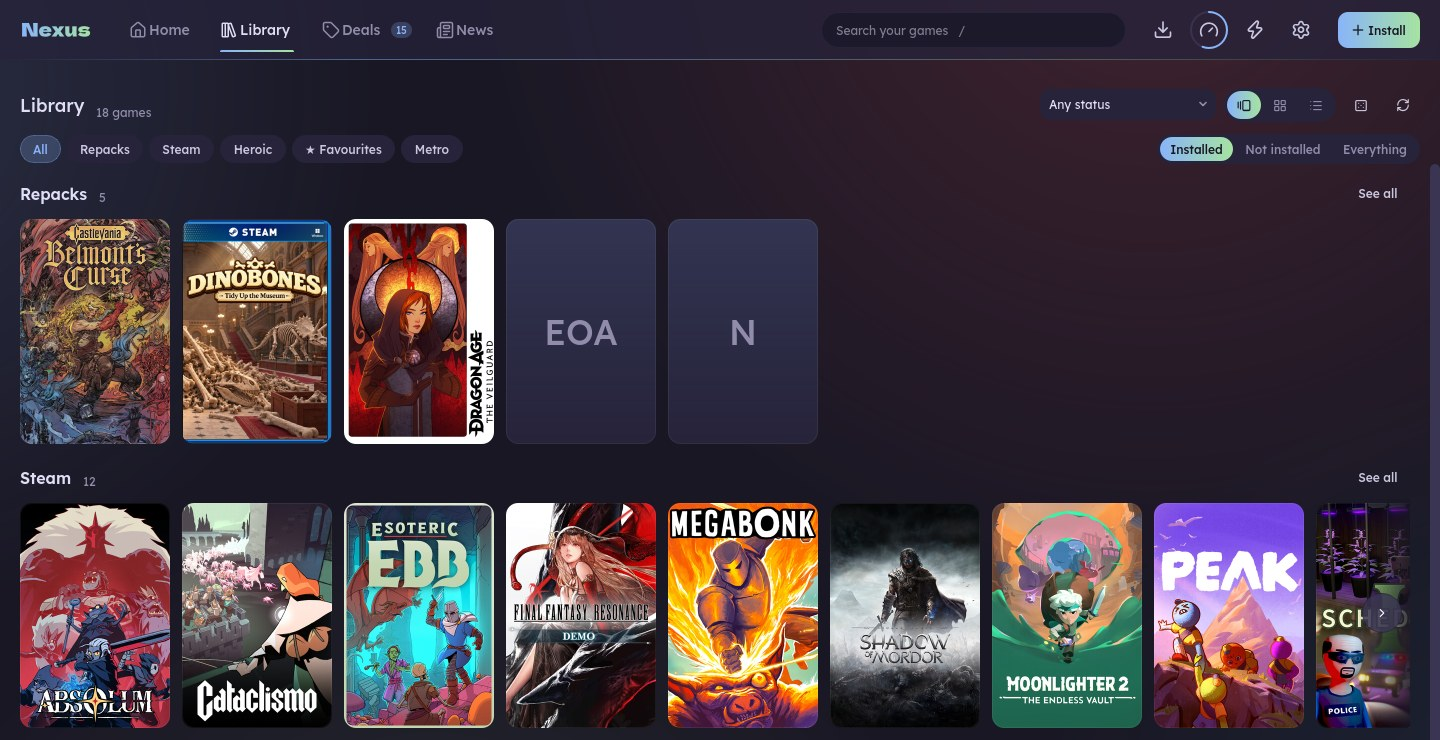
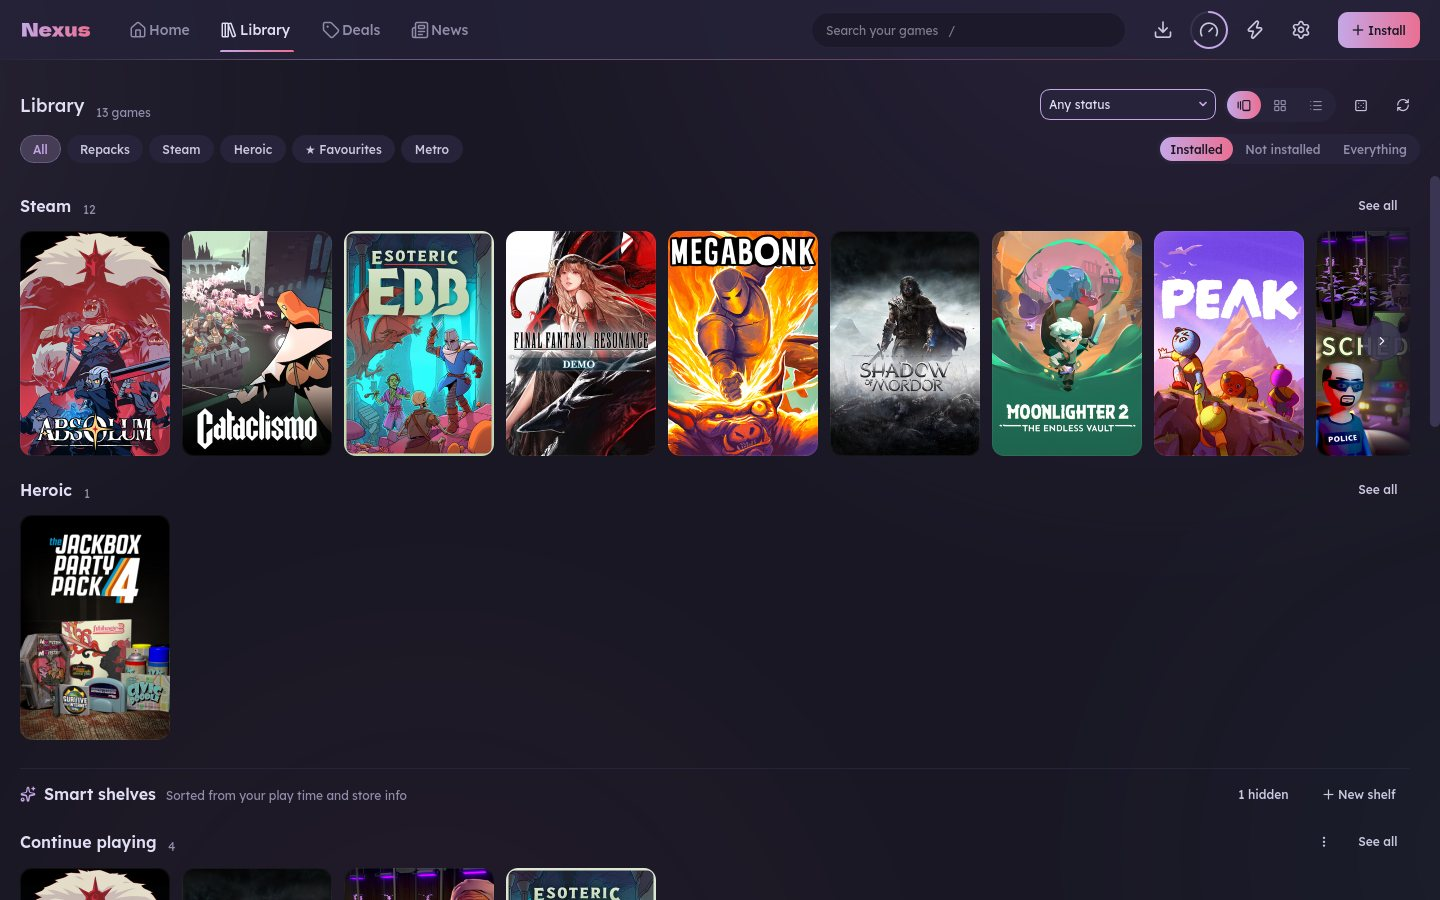
README: features by theme, Linux vs Windows table, fresh screenshots (w-68)

diff --git a/README.md b/README.md
@@ -6,28 +6,112 @@ everything tidy: artwork, play time, saves, disk space. It has a TV-friendly The
 for playing from the couch with a controller.
 
 It runs on **Linux** (the main platform) and **Windows** (a newer edition, called
-*nexus-launcher* there).
+*nexus-launcher* there). [Linux vs Windows](#linux-vs-windows) below says what each one has.
 
-![Nexus Home page on Linux: a Continue playing banner and recently played games](docs/screenshots/home.jpg)
+![Nexus Home page on Linux: a Continue playing banner, recent games and a Surprise me card](docs/screenshots/home.jpg)
 
 > Nexus is an unofficial hobby project, not affiliated with Valve, Epic, Heroic or any
 > store. It never downloads games by itself. Only install software you are allowed to use.
 > MIT licensed, see [LICENSE](LICENSE).
 
-## What it does
+## Features
+
+### One library
+
+Your Steam, Epic and repack games side by side (Heroic games too on Linux), as shelves, a
+grid or a list. Filter by source, favourites or your own **collections** (*Couch co-op*,
+*Short sessions*), and let **smart shelves** (Unfinished, Almost done, Never played, Short games,
+Co-op and more) fill themselves from what Nexus knows about each game, and you can make
+your own. A game you own twice shows
+once. Games you own but haven't installed are there too, with an Install button.
+
+![The Library page: games grouped by source on shelves](docs/screenshots/library.jpg)
+
+![A game's details panel: hero art, play time, genres, description, achievements and launch options](docs/screenshots/game.jpg)
+
+- **A page for every game:** hero art and logo, play time, last played, size on disk, genres,
+  a description, how long it takes to beat, achievements, trailers, news and your own notes.
+- **Artwork that looks right:** covers, banners, heroes and logos from SteamGridDB, filled in
+  quietly in the background. Pick another image for any game, Steam games included.
+- **Home** starts with a *Continue playing* banner, then widgets you can move, resize or hide:
+  Jump back in, Surprise me (it picks a game for you), News, Upcoming releases and more.
+
+### Install and manage games
+
+- **Install from a setup file:** point Nexus at a repack's `setup.exe` and it installs the
+  game, finds the launcher, adds it to your library and fetches its artwork.
+- **Storage cleanup:** one bar per drive, a clean-up list (stray prefixes, caches, old
+  installers, old logs) that goes to the Trash first, and nothing that may hold saves is
+  ever pre-selected.
+- **Move, back up and uninstall safely:** games can move between drives, saves are backed up
+  before an uninstall, and a running game is never uninstalled.
+- **Health checks:** a checklist of what's ready and what's missing, with a fix for each.
+- **Downloads:** shows and controls your Transmission or qBittorrent downloads, and tells you
+  when a repack you have gets an update.
+
+### Theatre mode, for the couch
+
+Full screen, big tiles, readable from the sofa and driven by a controller (Xbox, PlayStation
+and Switch pads). Start it with F11, the controller's Menu button or `nexus --theatre`.
+
+![Theatre mode: the Home page at TV size with the Play button focused](docs/screenshots/theatre.jpg)
+
+- **Quick menu:** press Menu or Guide anywhere for a panel of big rows: a *Now playing* card
+  with **Resume** and **Quit game**, your controllers and their battery, Exit Theatre.
+- **Game page:** Play, favourite, Options, and cards for achievements, compatibility, news
+  and trailers, all reachable with the D-pad.
+- **On-screen keyboard** for search, a **screensaver** that shows your games' art or trailers
+  when you're idle, and a Start/Guide map in the hint bar.
+
+![A game's page in Theatre mode](docs/screenshots/theatre-game.jpg)
+
+### Stay informed
+
+- **Deals, Upcoming and Backlog** (with a [Game-db](#game-db) server): wishlist sales sorted
+  by how close they are to an all-time low, a countdown for unreleased games, and tonight's
+  three picks for the time you have.
+- **News:** gaming news and patch notes for your games, as a magazine.
+- **Alerts:** a quiet background agent and tray icon tell you about sales, repack updates
+  and new Proton builds; Discord status and phone notifications are optional.
+
+### Make it yours
+
+Dark and light themes, accent and gradient colours, background glow, corner style and a
+90 to 150 % size for big screens. Changes save as you make them.
+
+![Settings, Appearance: themes, accent colours, glow and size](docs/screenshots/settings.jpg)
+
+## Linux vs Windows
+
+Nexus is one codebase, and both builds share the library, game pages, Theatre mode, storage,
+downloads, deals and alerts. They differ in how a game runs, because Windows games already
+run natively on Windows and need a compatibility layer on Linux.
 
 | | Linux | Windows |
 |---|:---:|:---:|
 | One library for Steam and Epic games, with artwork, play time and achievements | ✓ (Epic through Heroic) | ✓ |
-| Install a game from its `setup.exe` and add it to the library | ✓ (runs under Proton) | ✓ (runs natively) |
-| Theatre mode for the TV, with controller support | ✓ | ✓ |
-| Storage cleanup, health checks, move and back up games and saves | ✓ | ✓ |
-| Downloads from your torrent client (Transmission or qBittorrent) | ✓ | ✓ |
-| Deals, upcoming releases and backlog picks (needs a [Game-db](#game-db) server) | ✓ | ✓ |
-| Background alerts, tray icon, Discord status, phone notifications | ✓ | ✓ |
-| Proton manager, per-game tuning (gamescope, MangoHud, …), Sunshine streaming | ✓ | — |
+| Install a game from its `setup.exe` | ✓ (runs under Proton) | ✓ (runs natively) |
+| Smart shelves, collections, game pages, Home widgets | ✓ | ✓ |
+| Theatre mode and controller support | ✓ | ✓ |
+| Now playing: Resume and Quit game | ✓ | ✓ |
+| Storage cleanup, health checks, move and back up games | ✓ | ✓ |
+| Save backup around uninstall | ✓ | ✓ (from the Ludusavi manifest) |
+| Torrent client control (Transmission, qBittorrent) | ✓ | ✓ |
+| Deals, Upcoming, Backlog (needs a [Game-db](#game-db) server) | ✓ | ✓ |
+| Background alerts, tray icon, Discord status | ✓ | ✓ |
+| Runs in the background | systemd user service | tray, started with Windows |
+| App-menu entries | `.desktop` launchers | Start Menu shortcuts |
+| Proton manager, ProtonDB, per-game Proton choice, umu | ✓ | not needed |
+| Launch profiles: env vars, wrappers, per-game tuning | ✓ | — |
+| Performance presets: gamescope, MangoHud, lsfg-vk | ✓ | — |
+| protongen integration | ✓ | — |
+| Heroic games and shortcuts | ✓ | — (skipped) |
+| Sunshine game streaming | ✓ | — (planned) |
+| Pause a running game, KDE Connect, system tuning tips | ✓ | — |
+| Installer | Git checkout and a few commands | Installer or portable zip, no admin prompt |
 
-![The Library page: games grouped by source, with filters and view options](docs/screenshots/library.jpg)
+A dash isn't a bug: those features only make sense on Linux, or aren't ported yet. The
+Windows details are in [docs/WINDOWS.md](docs/WINDOWS.md#not-available-on-windows).
 
 ## Install
 
@@ -102,3 +186,6 @@ python3 -m unittest discover -s tests
 
 The tests need no network and never touch your real home folder. CI runs them on Ubuntu
 and Windows for every push. Bug reports and pull requests are welcome.
+
+<sub>Screenshots are of the Linux build with the default theme; the Windows build looks the
+same apart from the Linux-only pages and options.</sub>
